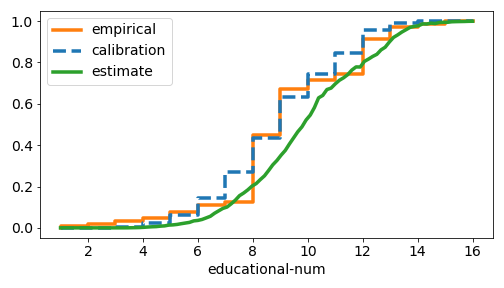
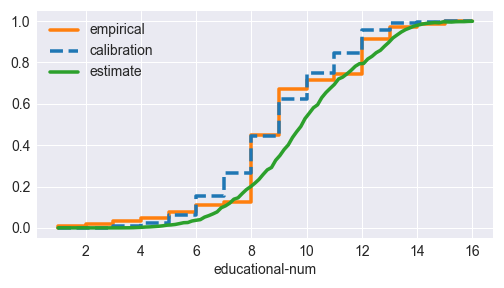
minor updates

diff --git a/calibration.py b/calibration.py
@@ -9,6 +9,8 @@ import tqdm
 from PIL import Image
 import matplotlib.pyplot as plt
 # plt.switch_backend('agg')
+import matplotlib as mpl
+mpl.style.use('seaborn')
 
 import torch
 from torch import nn
